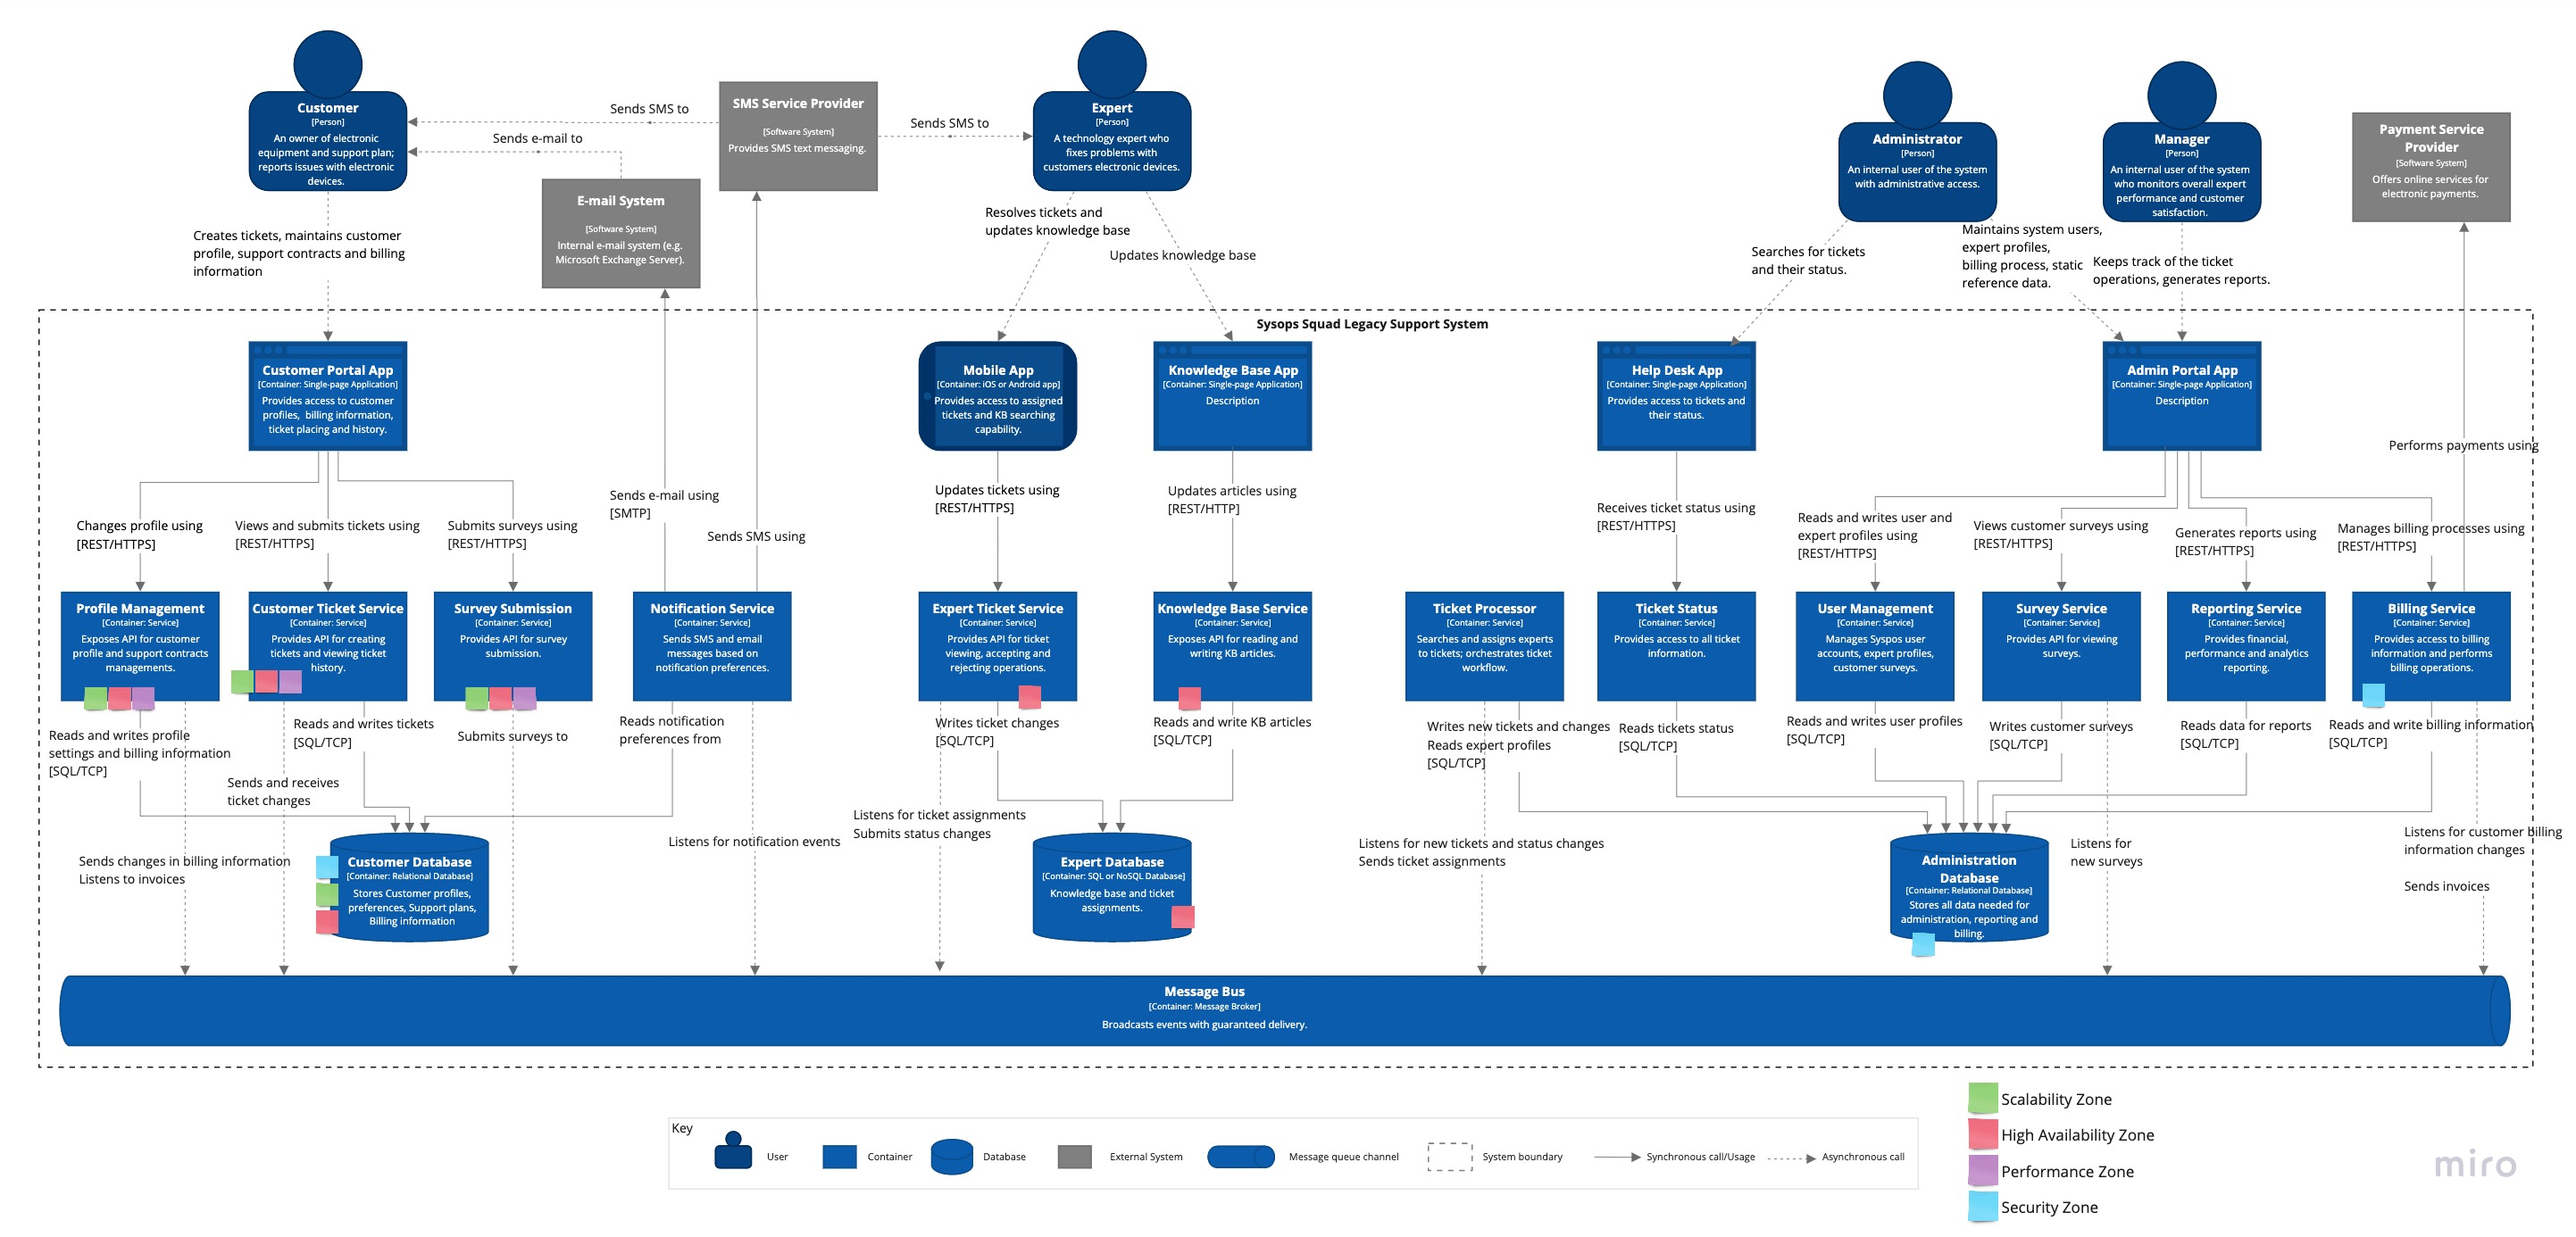
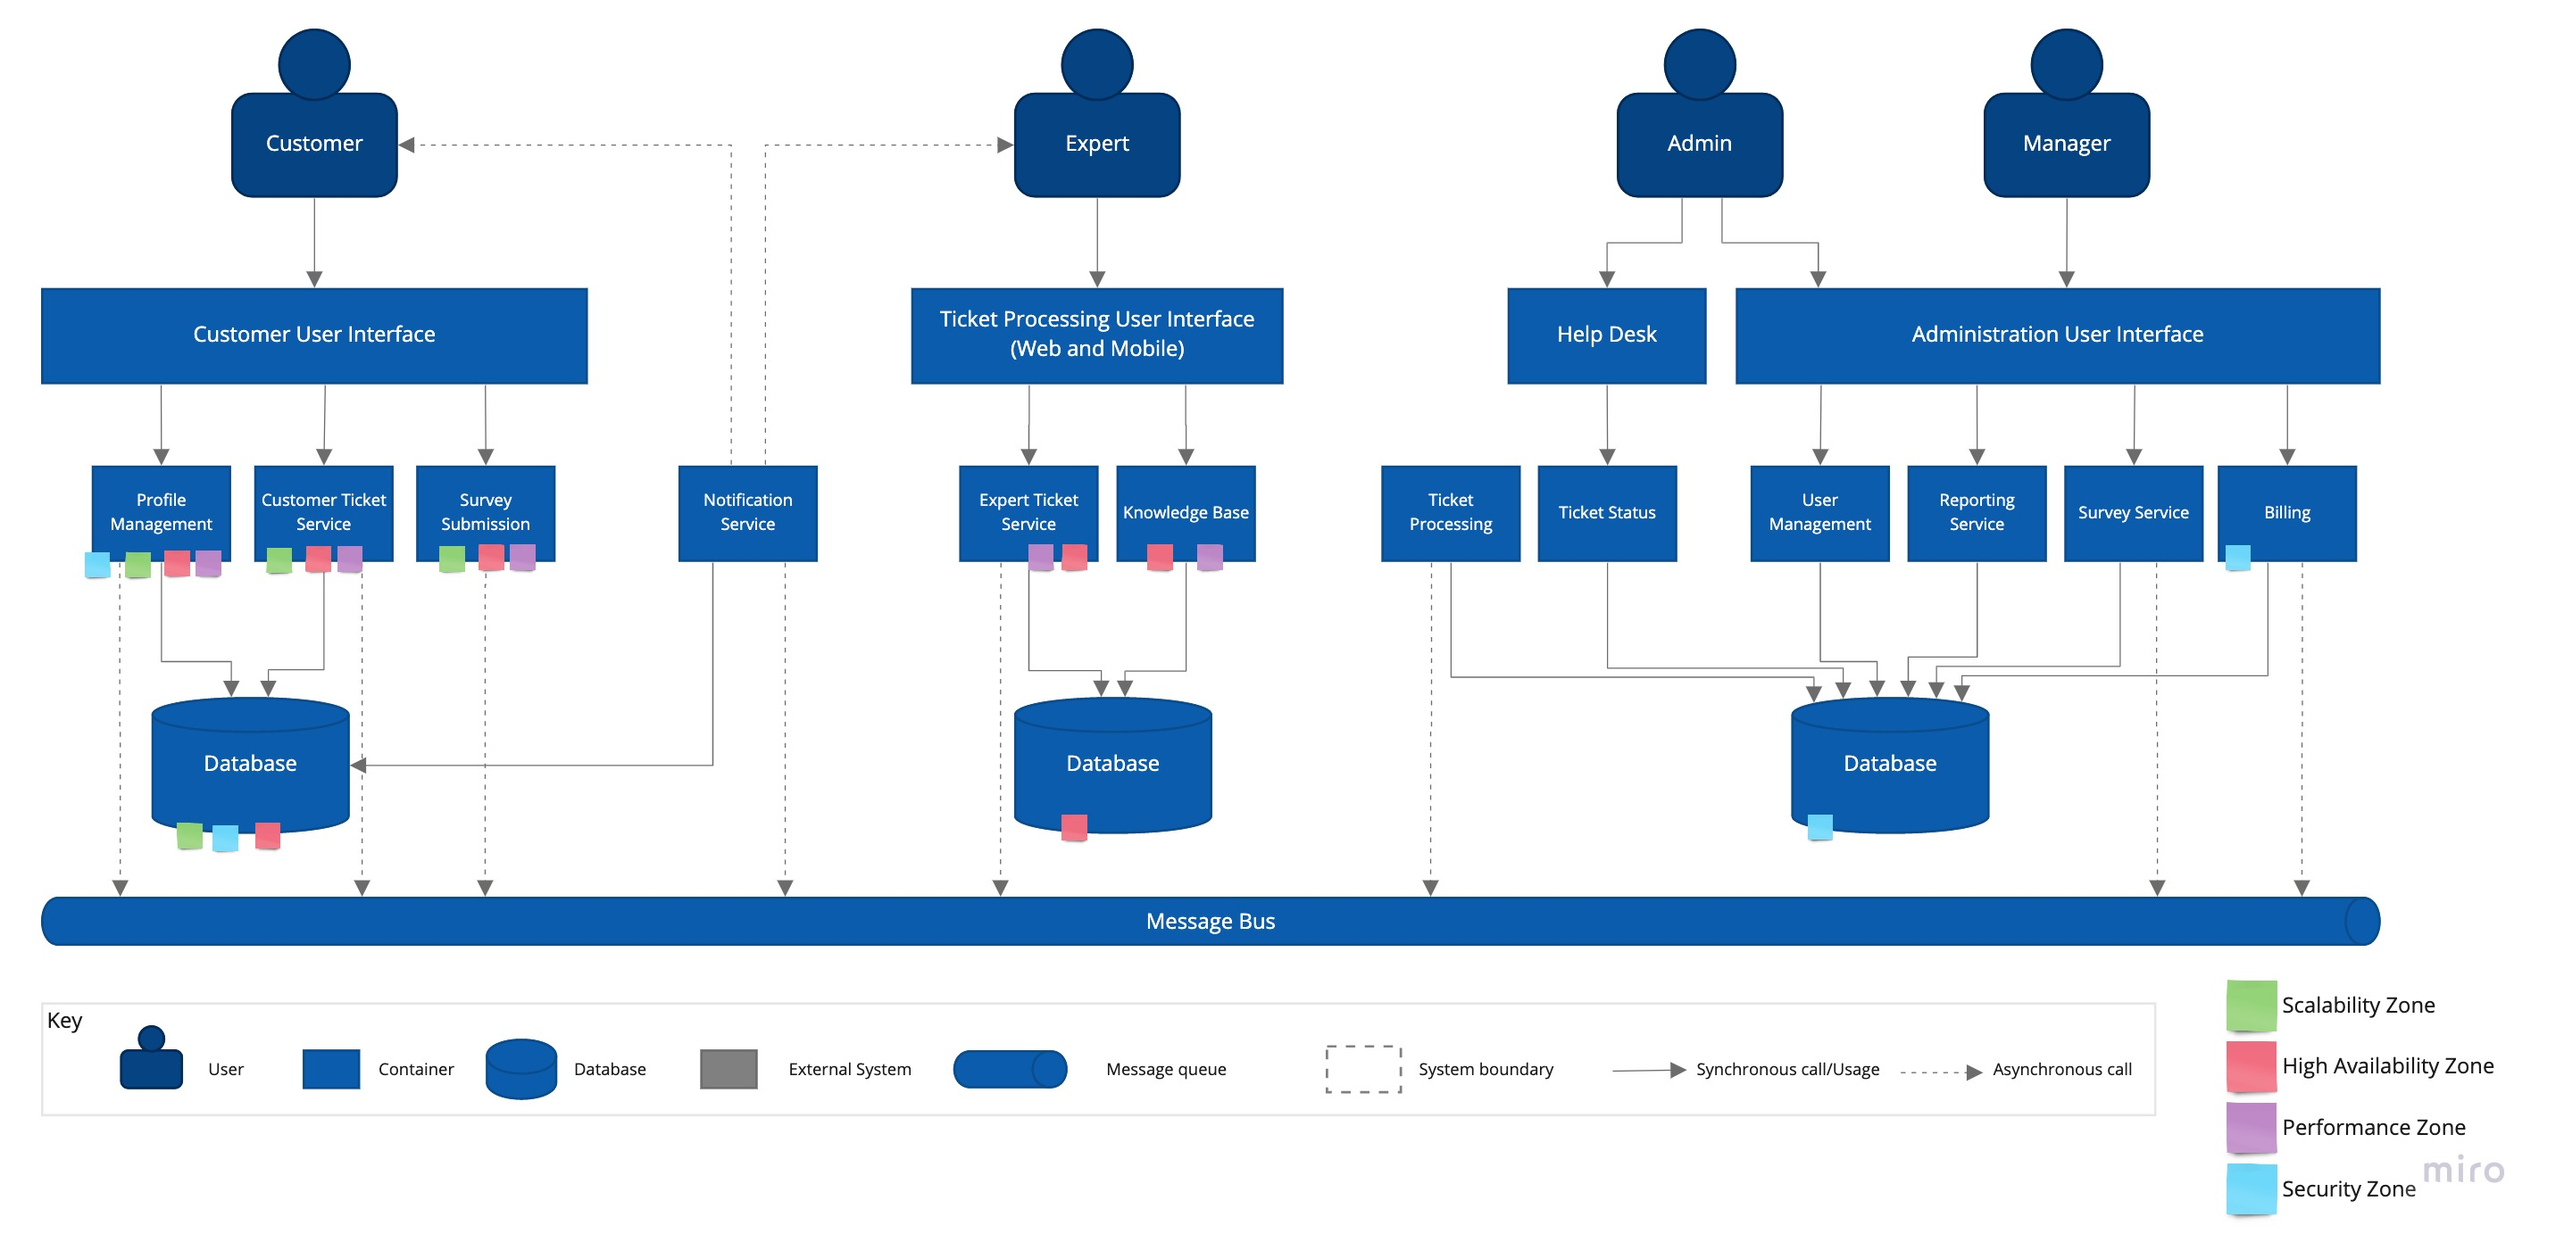
Show separate diagram for each domain

diff --git a/README.md b/README.md
@@ -52,9 +52,26 @@ The architecture is build around three main domains that have been discovered du
 
 The architectural style used here as the bases is Service-based with event-driven elements (see [ADR-1](ADR/ADR-1-service-based.md) and [ADR-2](ADR/ADR-2-event-driven-broker.md) for details).
 
-![Containers](images/containers.jpg "Containers")
+The high-level idea is illustrated on the following diagram. Note that Notification service is shared by all domains. More detailed diagram of each domain containers follows.
+
+![Containers Overview](images/containers.jpg "Containers Overview")
 
 Note that the diagram is focused on domain concerns, so cross-cutting concerns such as logging, authentication, load balancing etc, are not present to make the picture more clear.
+
+#### Customer domain containers
+The following diagram describes customer-facing containers in more detail.
+
+![Customer Containers](images/customer-containers.jpg "Customer Containers")
+
+#### Expert domain containers
+The following diagram describes expert containers in more detail.
+
+![Expert Containers](images/expert-containers.jpg "Expert Containers")
+
+#### Administration domain containers
+The following diagram describes administration containers in more detail.
+
+![Admin Containers](images/admin-containers.jpg "Admin Containers")
 
 ### Sequences
 
